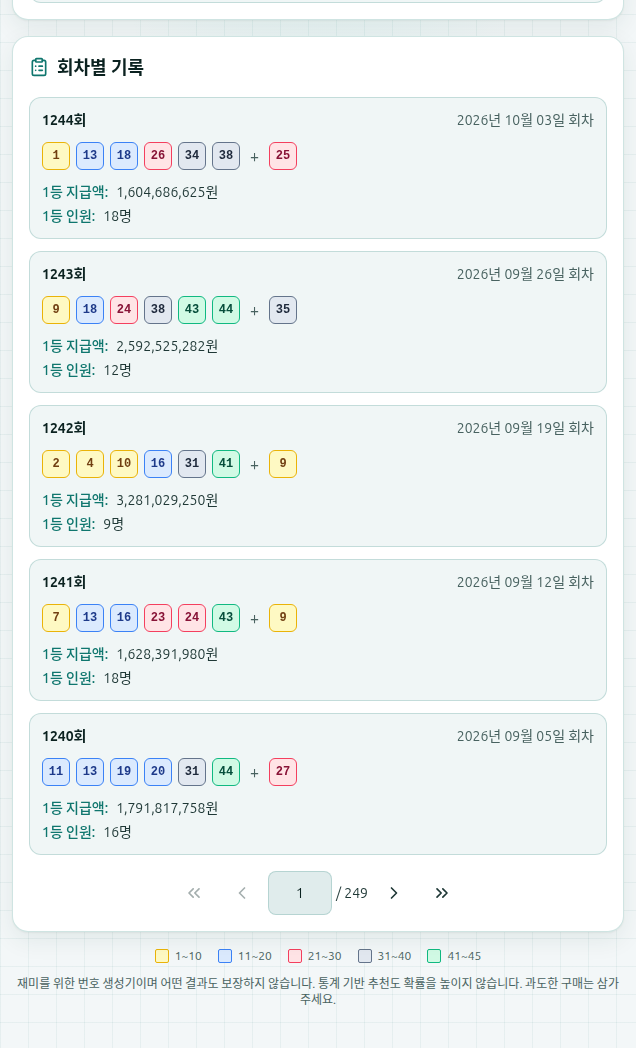
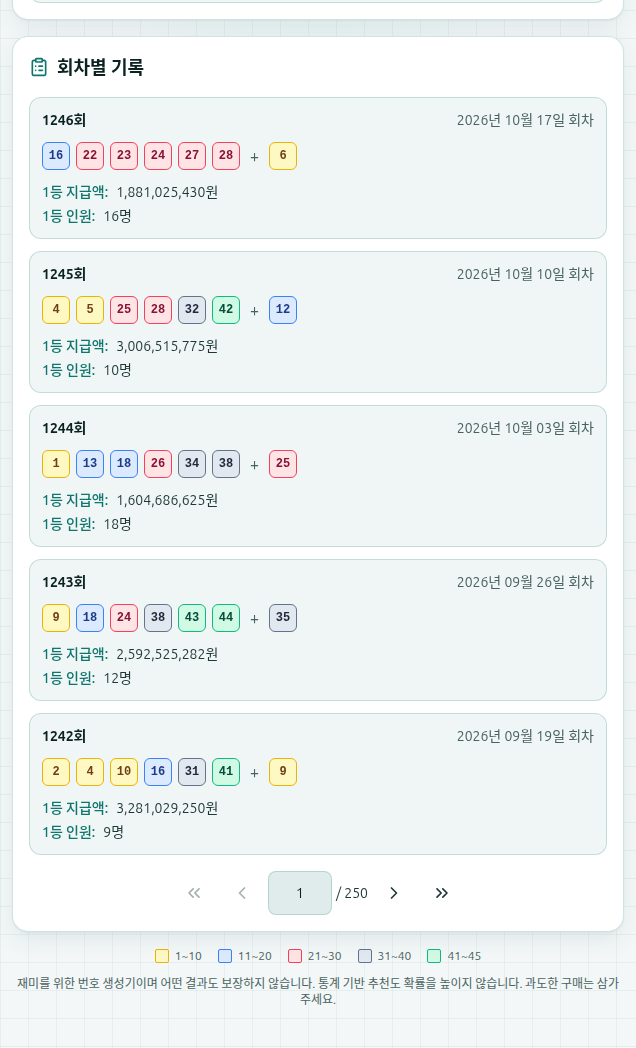
docs: 앱 이름 변경 반영, 미리보기 스크린샷 재촬영, 노출 정책 수정 설계 추가

diff --git a/docs/design.md b/docs/design.md
@@ -1,0 +1,41 @@
+# 토스 추천 미니앱 노출 정책 미충족 항목 수정 설계
+
+기준: https://developers-apps-in-toss.toss.im/guide/exposure (추천 미니앱 UX 원칙·지표·성능)
+범위 밖: 2회차부터 매번 광고 필수인 구조(정책 결정 필요, 변경 금지).
+
+## 1. 광고를 보고도 결과를 못 받는 경로 (Critical)
+- `src/components/Generator.js`의 추천 요청(`fetchRecommendSet`, axios)에 `{ timeout: 5000 }`을 넣는다.
+- 추천 요청이 실패·시간 초과되면 `generateRandomSets(1)`로 대체해 항상 결과를 보여주고, "추천 서버 응답이 없어 랜덤으로 만들었어요" 안내를 표시한다.
+- 광고 보상 크레딧(`adCreditRef`)과 무료 횟수는 결과를 화면에 보여준 뒤에만 소모한다. 결과가 안 나온 시도 때문에 광고를 다시 요구하지 않는다.
+
+## 2. CRA 템플릿 잔존물 정리 (Critical)
+- `public/logo192.png`, `logo512.png`, `favicon.ico`를 `store-assets/logo-numberlab-600.png`를 리사이즈해 교체한다 (python3 Pillow 사용 가능하면 사용, 없으면 ImageMagick).
+- `public/manifest.json`: short_name/name을 "로또 번호 연구소", theme_color를 `#0f766e`, background_color를 앱 배경에 맞춘다.
+- `public/index.html`: CRA 템플릿 안내 주석을 삭제하고, `<title>`·`og:title` 등 이름이 들어간 메타를 "로또 번호 연구소"로 통일한다 (description 메타도 앱 설명으로).
+- 미사용 `src/App.css`, `src/logo.svg`, `reportWebVitals` 참조는 안전하게 제거 가능하면 제거한다 (빌드·테스트가 깨지면 되돌린다).
+
+## 3. 전환 이벤트 로깅 (Major)
+- `src/utils/analytics.js` 신설: ads.js와 같은 방식(`IS_MINI_APP`일 때만 `@apps-in-toss/web-framework`를 동적 import)으로 `Analytics`를 감싸고, 실패해도 앱 동작에 영향 없도록 try/catch로 삼킨다. 웹 빌드에서는 no-op.
+- 기록 이벤트: 화면 진입(`screen`, log_name `home`), 번호 생성 버튼 클릭(`click`, log_name `generate`, mode·ad 여부), 광고 노출/보상 지급/중도 종료, 생성 완료, 복사.
+- SDK의 정확한 시그니처는 `node_modules/@apps-in-toss/web-framework`의 타입 정의(`Analytics.screen/click/impression/log`)를 확인해 맞춘다.
+
+## 4. 안정성 (Major)
+- `src/hooks/useFetch.js`의 `axios.get`에 `{ timeout: 8000 }`을 넣는다.
+- `src/App.js`를 ErrorBoundary로 감싸고, 카드 단위로도 fallback("불러오지 못했어요" + 다시 시도)을 둔다.
+- `LatestDraw.js`, `WinningNumbers.js`에서 서버 데이터 접근을 방어적으로 바꾼다 (`date?.split`, `firstWinPrize?.toLocaleString?.() ?? '-'`, `data?.content?.map` 등).
+
+## 5. 빈 화면·완료 안내 (Major)
+- `src/components/AsyncState.js`: 데이터가 비어 있으면 null 대신 "아직 표시할 회차가 없어요" 안내를 렌더링한다.
+- 번호 생성 전 보드 아래에 "버튼을 누르면 6개 번호가 만들어져요" 안내를 둔다.
+- 생성 직후 결과 카드에 보이는 완료 문구("번호를 만들었어요. 복사해서 저장해 보세요")를 표시한다.
+
+## 6. 문구·소소한 정리 (Minor)
+- `Generator.js`의 부제 "역대 회차 데이터를 분석해 번호를 만들어 드려요"를 두 모드 모두에 맞는 문구("추천 또는 랜덤으로 번호를 만들어 드려요")로 바꾼다.
+- 광고 안내 "지금은 광고를 불러올 수 없어 바로 만들어 드려요"를 내부 상태를 드러내지 않는 문구로 다듬는다.
+- `apps-in-toss.config.ts`의 `primaryColor`를 앱 CTA 색(`#0f766e`)과 맞춘다.
+- 금지 단어(당첨, 추첨, 상금, 1등, 확률, 예측, 적중, 베팅)를 화면 문구에 새로 넣지 않는다. 기존 문구는 이번에 건드리지 않는다.
+
+## 제약
+- 기존 디자인·레이아웃·광고 흐름(처음 1회 무료 후 보상형)은 유지한다.
+- 변경 후 `npm run build`와 기존 테스트(`CI=true npm test`)가 통과해야 한다.
+- 커밋하지 않는다.

diff --git a/store-assets/app-listing.md b/store-assets/app-listing.md
@@ -1,7 +1,7 @@
-# 번호 연구소 앱 등록 정보 (앱인토스 콘솔 입력용)
+# 로또 번호 연구소 앱 등록 정보 (앱인토스 콘솔 입력용)
 
 ## 기본
-- 한글 앱 이름: 번호 연구소
+- 한글 앱 이름: 로또 번호 연구소
 - 영문명(appName): numberlab (변경 불가)
 - 영문 표시 이름: Number Lab
 - 앱 유형: 비게임
@@ -14,7 +14,7 @@
 로또 6/45의 역대 회차별 번호 기록과 번호별 통계를 확인하고, 통계 기반 또는 랜덤 방식으로 번호를 생성해 볼 수 있는 서비스입니다. 앱에 들어오면 번호 생성 화면에서 숫자가 섞이다가 번호로 확정되고, 아래에서 최근 회차의 번호와 출현 빈도 분석, 자리별 빈도 분석, 회차별 기록을 볼 수 있습니다. 처음 1회는 광고 없이 만들 수 있고, 이후에는 광고를 끝까지 보면 번호를 만들 수 있습니다. 재미를 위한 서비스이며 복권 구매나 베팅과 연결되지 않고, 통계 기반 추천도 확률을 높이지 않습니다.
 
 ## 출시 노트 (최신 버전: 광고 연동, 번호 타일 디자인)
-번호 연구소가 더 편해졌어요.
+로또 번호 연구소가 더 편해졌어요.
 - 번호가 연구실 시료 칸처럼 깔끔한 타일 모양으로 바뀌었어요.
 - 번호를 만들 때 처음 1회는 광고 없이 만들 수 있어요. 이후에는 광고를 끝까지 보면 번호를 만들 수 있어요.
 - 한 번에 하나의 번호를 만드는 방식으로 단순하게 정리했어요. (5게임 생성과 효과음은 없어졌어요.)
@@ -29,7 +29,7 @@
 - 5게임 생성과 효과음을 정리하고 화면 표현을 다듬었어요.
 
 ### 이전 버전
-번호 연구소를 새롭게 바꿨어요.
+로또 번호 연구소를 새롭게 바꿨어요.
 - 연구소 느낌의 새 디자인과 라이트 모드를 추가했어요.
 - 회차별 기록과 빈도 분석 화면을 정리했어요.
 
